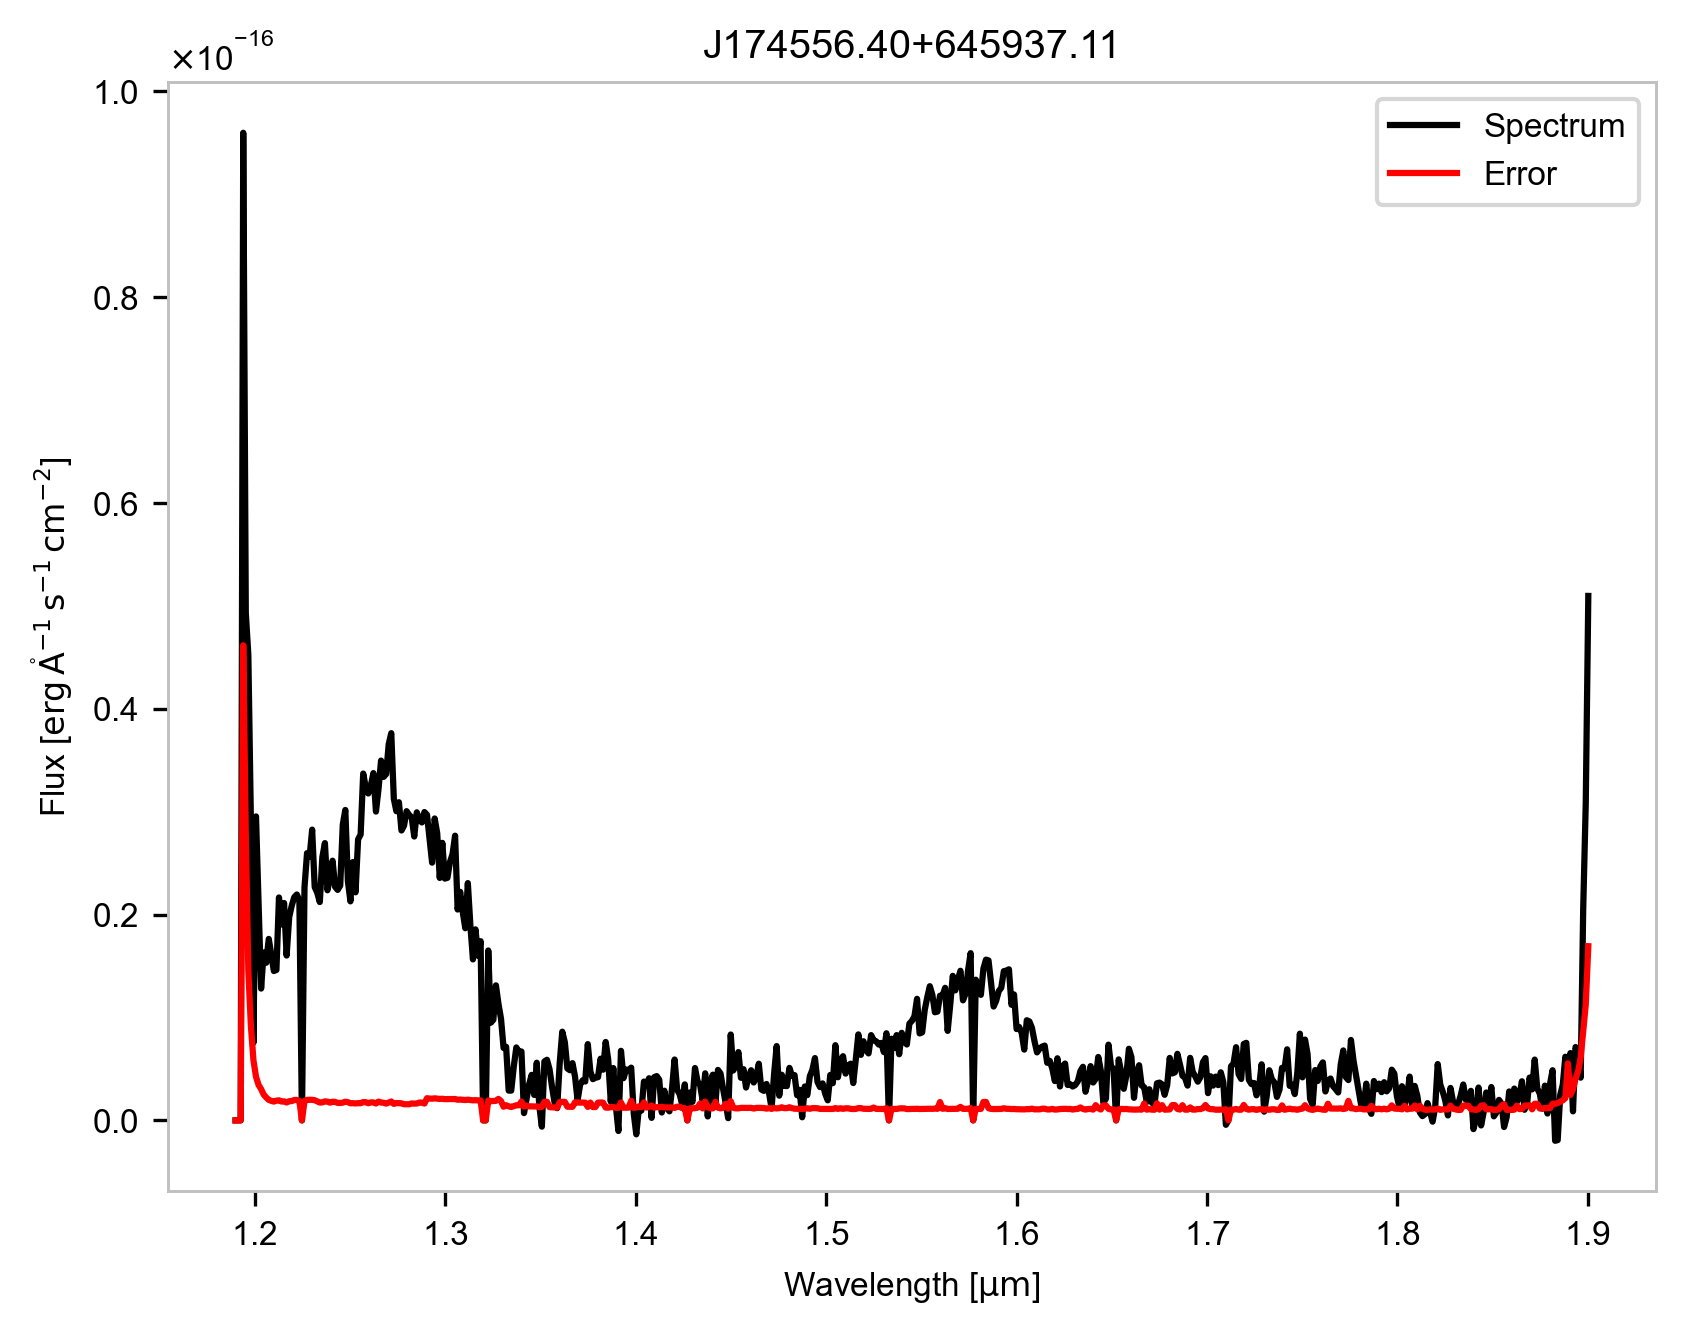
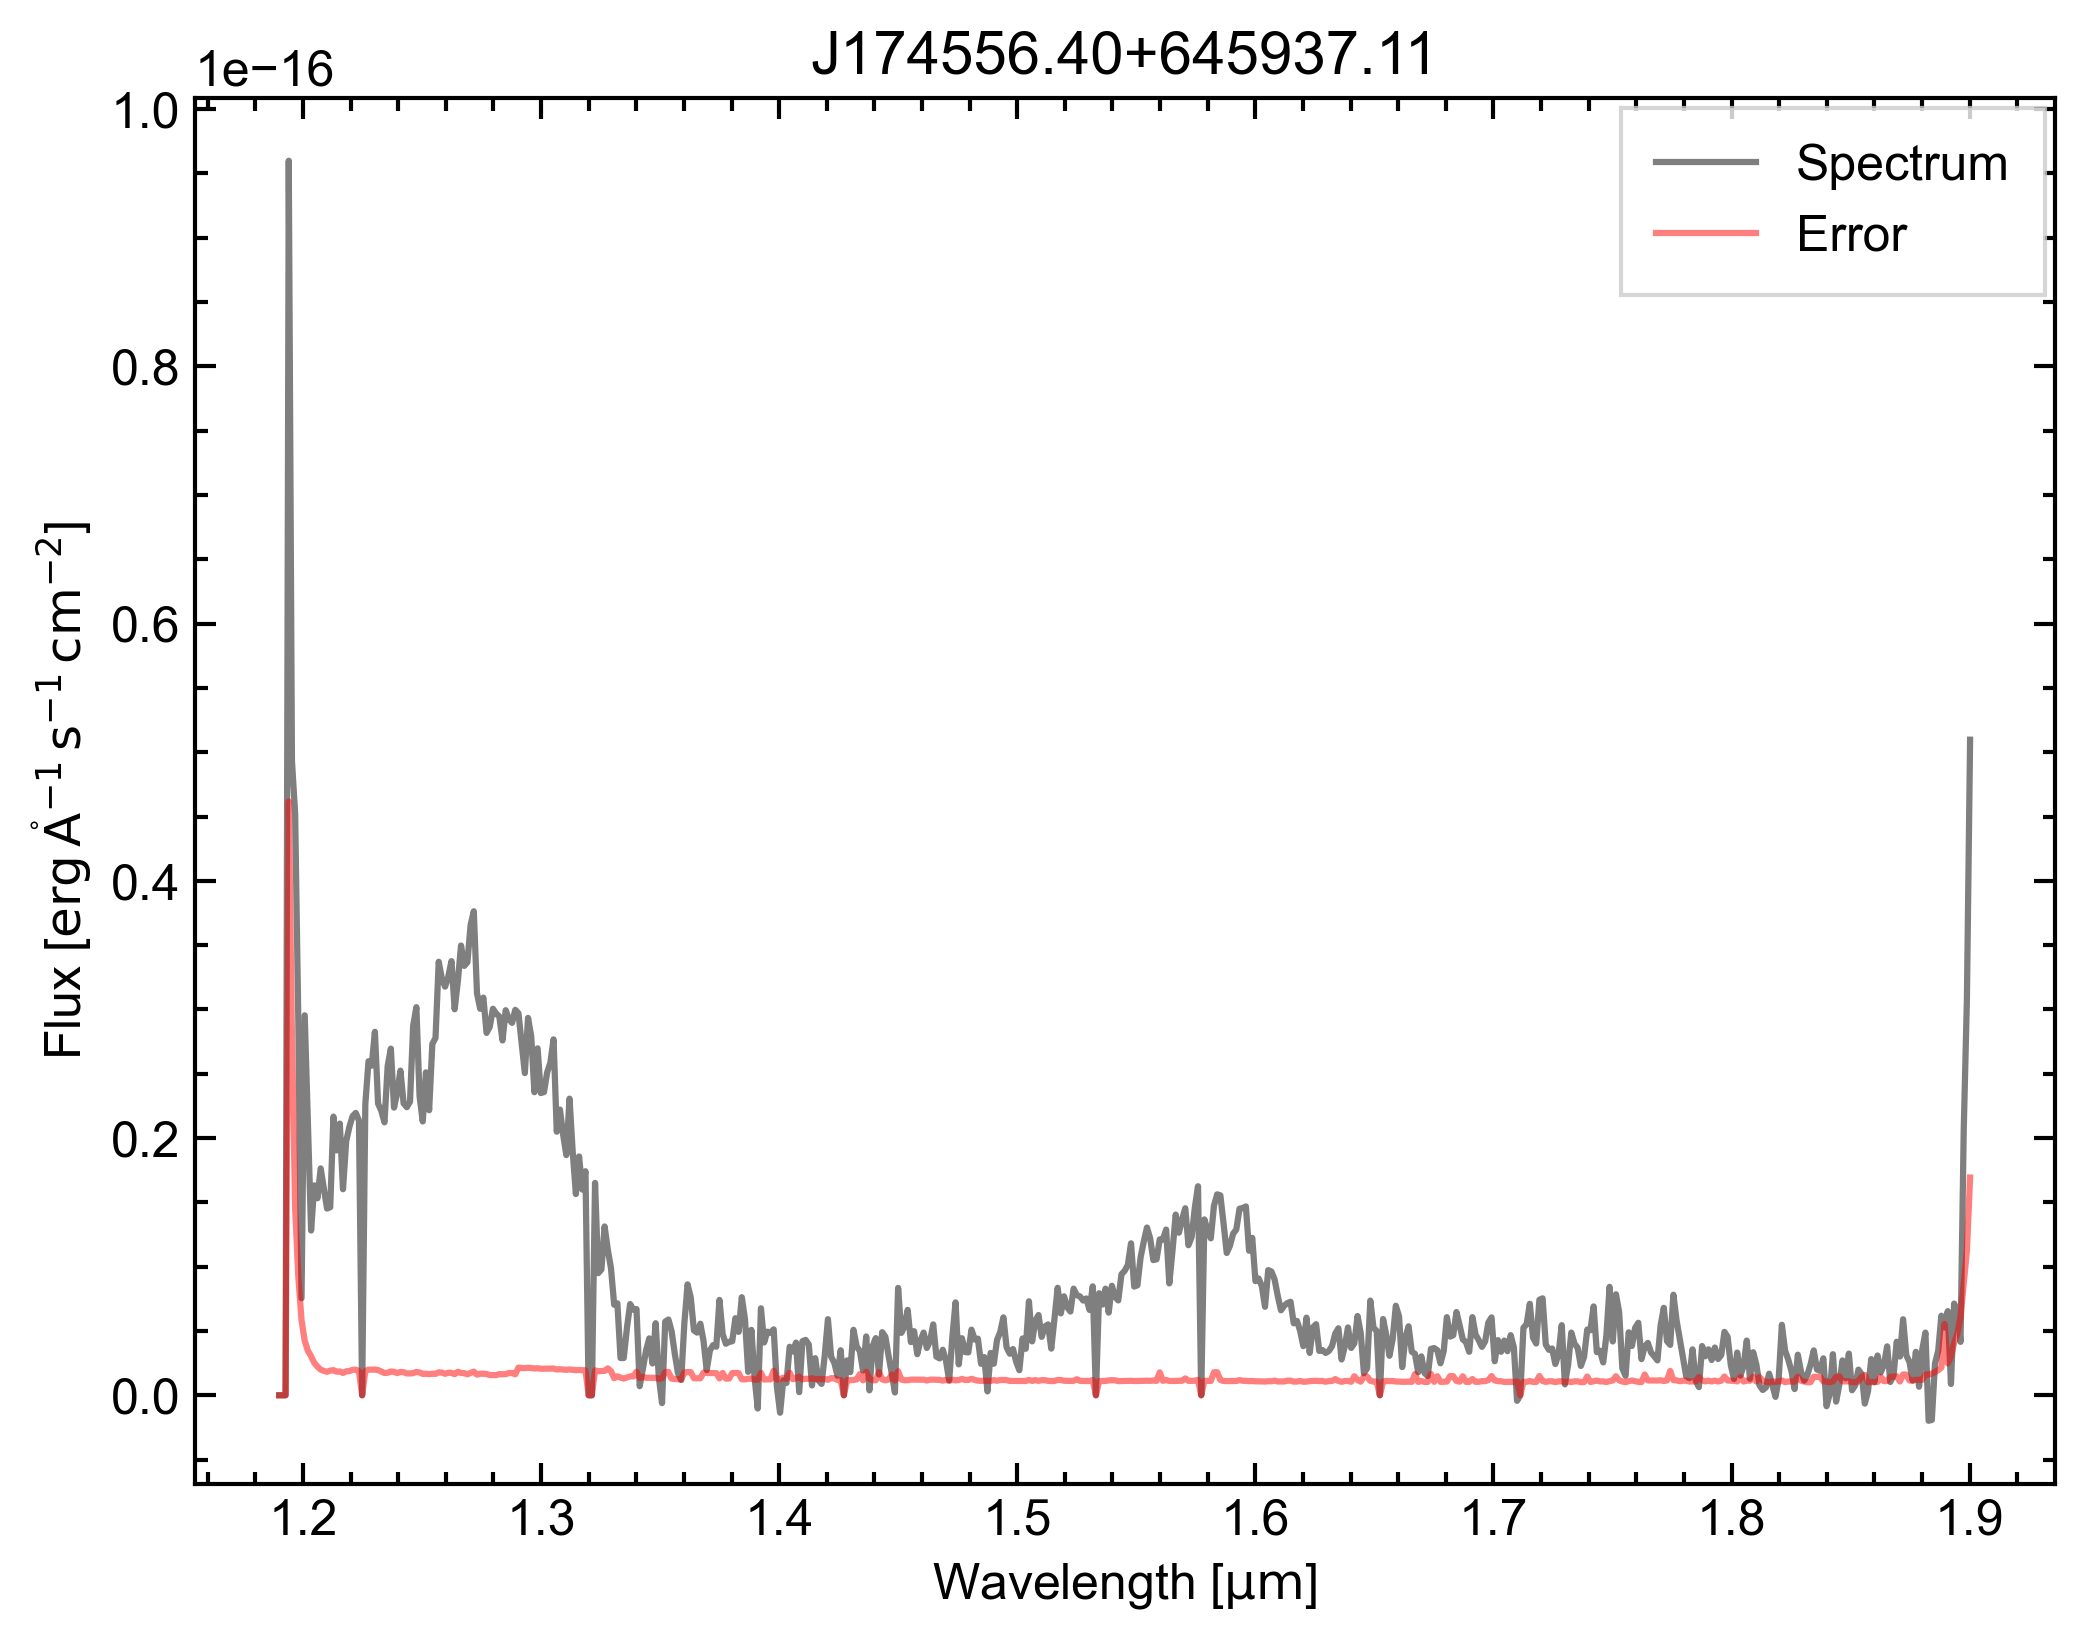
Change appearance of spectrum plot

Changed region(s): [[0.0, 0.0, 0.9875, 0.9835], [0.7715, 0.1537, 0.8024, 0.1844]]

diff --git a/euclid_tools/spectrum_plotter.py b/euclid_tools/spectrum_plotter.py
@@ -5,7 +5,9 @@ import matplotlib.pyplot as plt
 import euclid_tools.shared as shr
 
 
-def plot_spectrum(data, ra, dec, output_dir=tempfile.gettempdir(), open_plot=True, plot_format="png"):
+def plot_spectrum(
+    data, ra, dec, output_dir=tempfile.gettempdir(), open_plot=True, plot_format="png"
+):
     """
     Plot and save the spectrum of a source at given coordinates.
 
@@ -34,21 +36,24 @@ def plot_spectrum(data, ra, dec, output_dir=tempfile.gettempdir(), open_plot=Tru
         - Assumes the "WAVELENGTH", "FLUX", and "ERROR" columns are available and properly formatted.
     """
 
-    object_name = shr.create_object_name(ra, dec, precision=2, shortform=False, prefix="J", decimal=False)
+    object_name = shr.create_object_name(
+        ra, dec, precision=2, shortform=False, prefix="J", decimal=False
+    )
     filename = os.path.join(output_dir, object_name + "_spectrum." + plot_format)
 
     wavelength = data["WAVELENGTH"]
     flux = data["FLUX"]
     error = data["ERROR"]
 
-    plt.rcParams.update({"font.family": "Arial"})
-    plt.plot(wavelength, flux, color="black", label="Spectrum")
-    plt.plot(wavelength, error, color="red", label="Error")
-    plt.xlabel(f"Wavelength [{to_latex(wavelength.unit)}]")
-    plt.ylabel(f"Flux [{to_latex(flux.unit)}]")
+    plt.figure(figsize=(8, 6))
+    plt.rcParams.update(**_get_plot_settings())
+    plt.plot(wavelength, flux, color="k", alpha=0.5, label="Spectrum")
+    plt.plot(wavelength, error, color="r", alpha=0.5, label="Error")
+    plt.xlabel(f"Wavelength [{_to_latex(wavelength.unit)}]")
+    plt.ylabel(f"Flux [{_to_latex(flux.unit)}]")
     plt.title(object_name)
-    legend =plt.legend(loc="best")
-    legend.get_frame().set_boxstyle('Square')
+    legend = plt.legend(loc="best")
+    legend.get_frame().set_boxstyle("Square")
     plt.savefig(filename, dpi=300, bbox_inches="tight", format=plot_format)
     plt.close()
 
@@ -56,5 +61,27 @@ def plot_spectrum(data, ra, dec, output_dir=tempfile.gettempdir(), open_plot=Tru
         shr.open_file(filename)
 
 
-def to_latex(unit):
+def _get_plot_settings():
+    return {
+        "font.family": "Arial",  # Set the font family
+        "font.size": 12,  # Set the font size for labels and title
+        "axes.linewidth": 1.0,  # Make axis lines thicker
+        "xtick.major.size": 5.0,  # Set major x-tick size
+        "xtick.minor.size": 3.0,  # Set minor x-tick size
+        "xtick.major.width": 1.0,  # Set major x-tick line width
+        "xtick.minor.width": 1.0,  # Set minor x-tick line width
+        "xtick.direction": "in",  # Set x-ticks to point inward
+        "xtick.minor.visible": True,  # Make minor ticks visible
+        "xtick.top": True,  # Make top x-ticks visible
+        "ytick.major.size": 5.0,  # Set major y-tick size
+        "ytick.minor.size": 3.0,  # Set minor y-tick size
+        "ytick.major.width": 1.0,  # Set major y-tick line width
+        "ytick.minor.width": 1.0,  # Set minor y-tick line width
+        "ytick.direction": "in",  # Set y-ticks to point inward
+        "ytick.minor.visible": True,  # Make minor ticks visible
+        "ytick.right": True,  # Make right y-ticks visible
+    }
+
+
+def _to_latex(unit):
     return unit.to_string("latex_inline")
